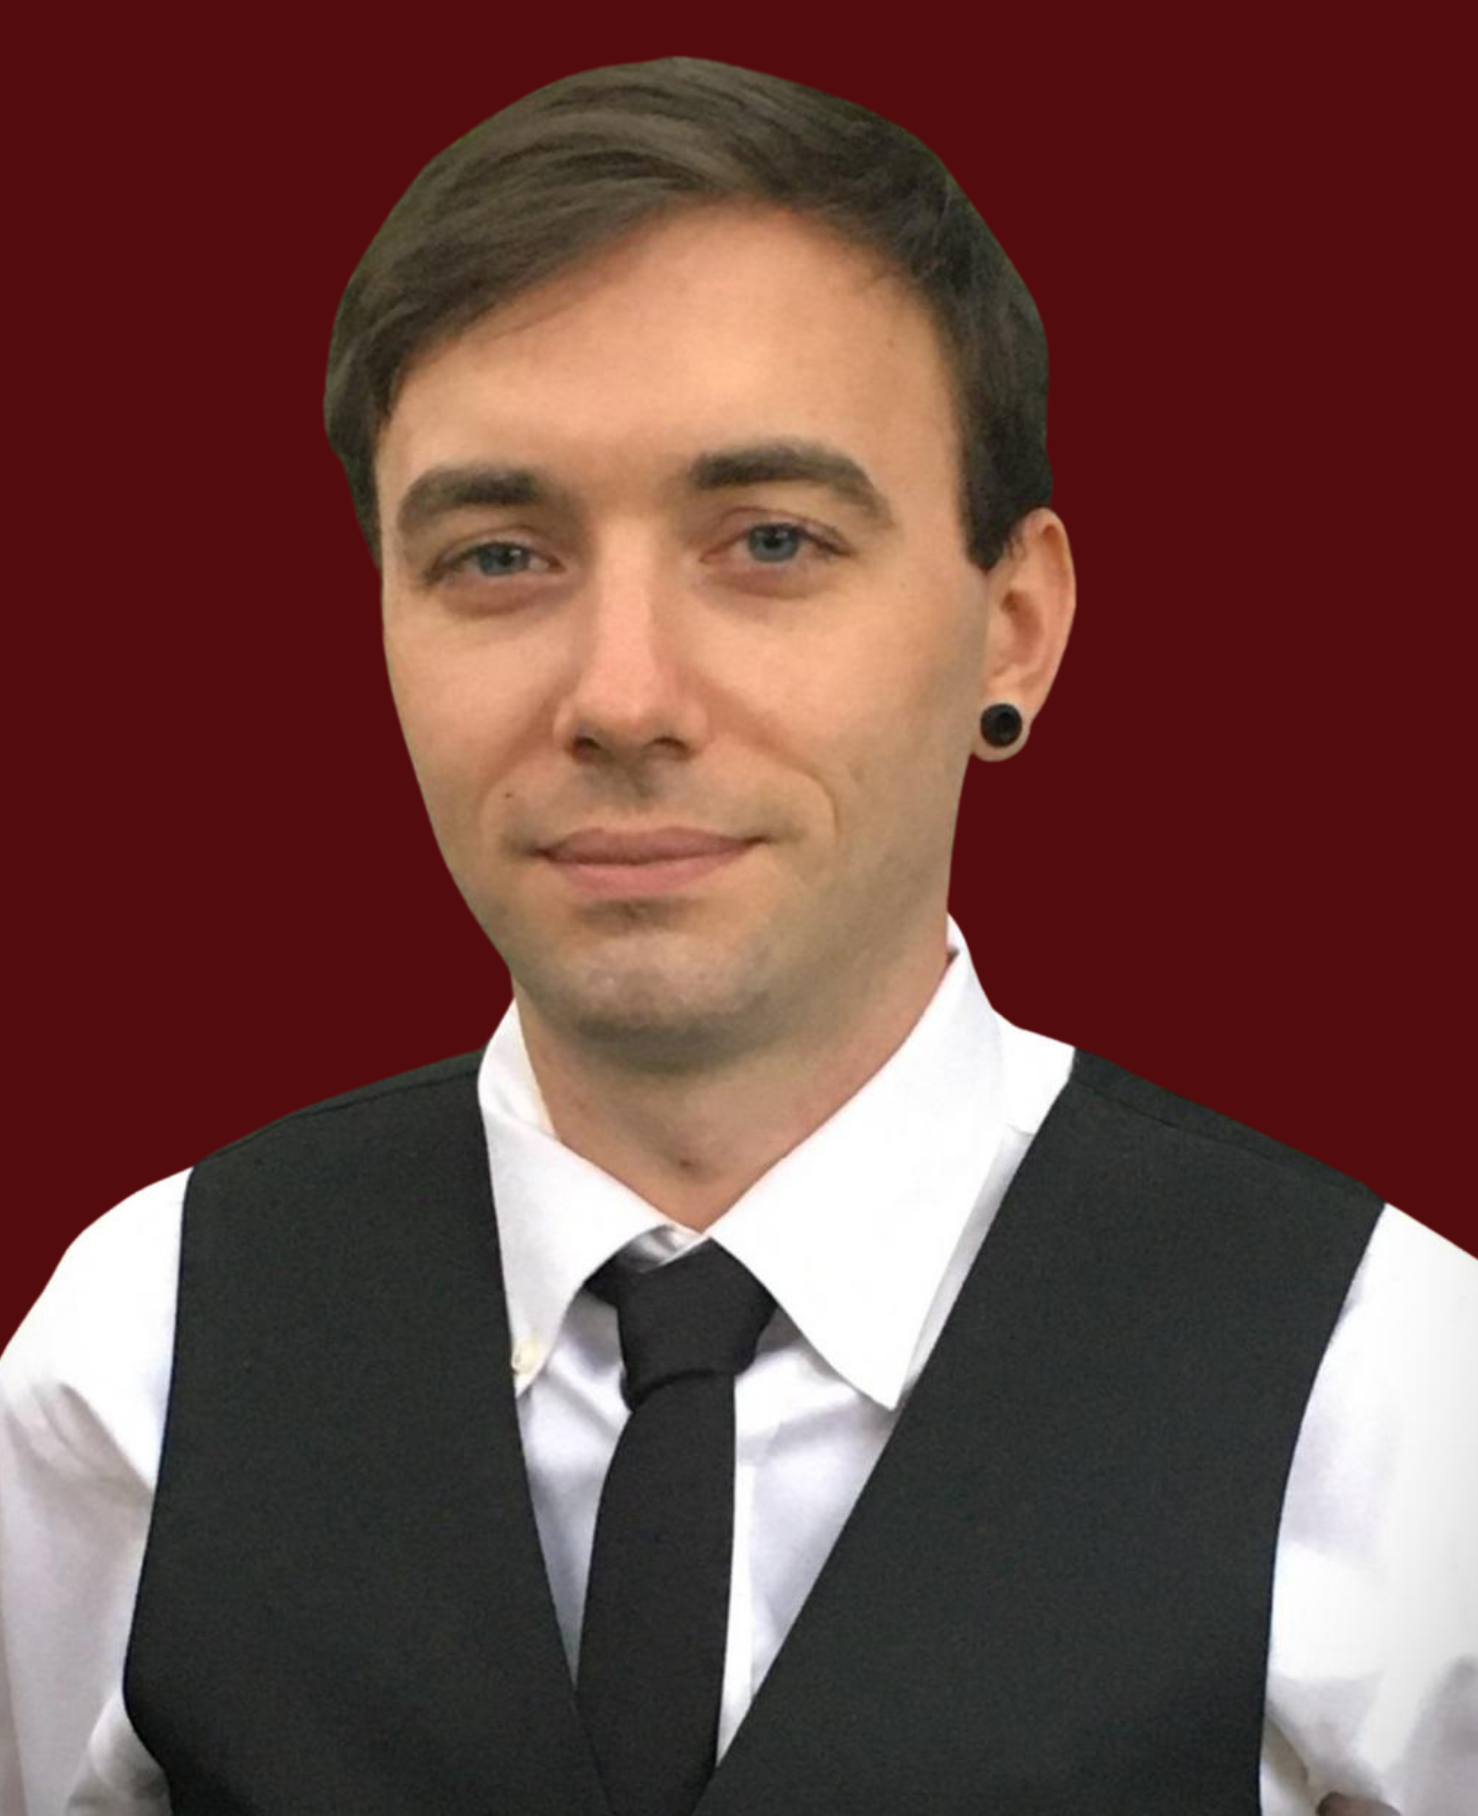
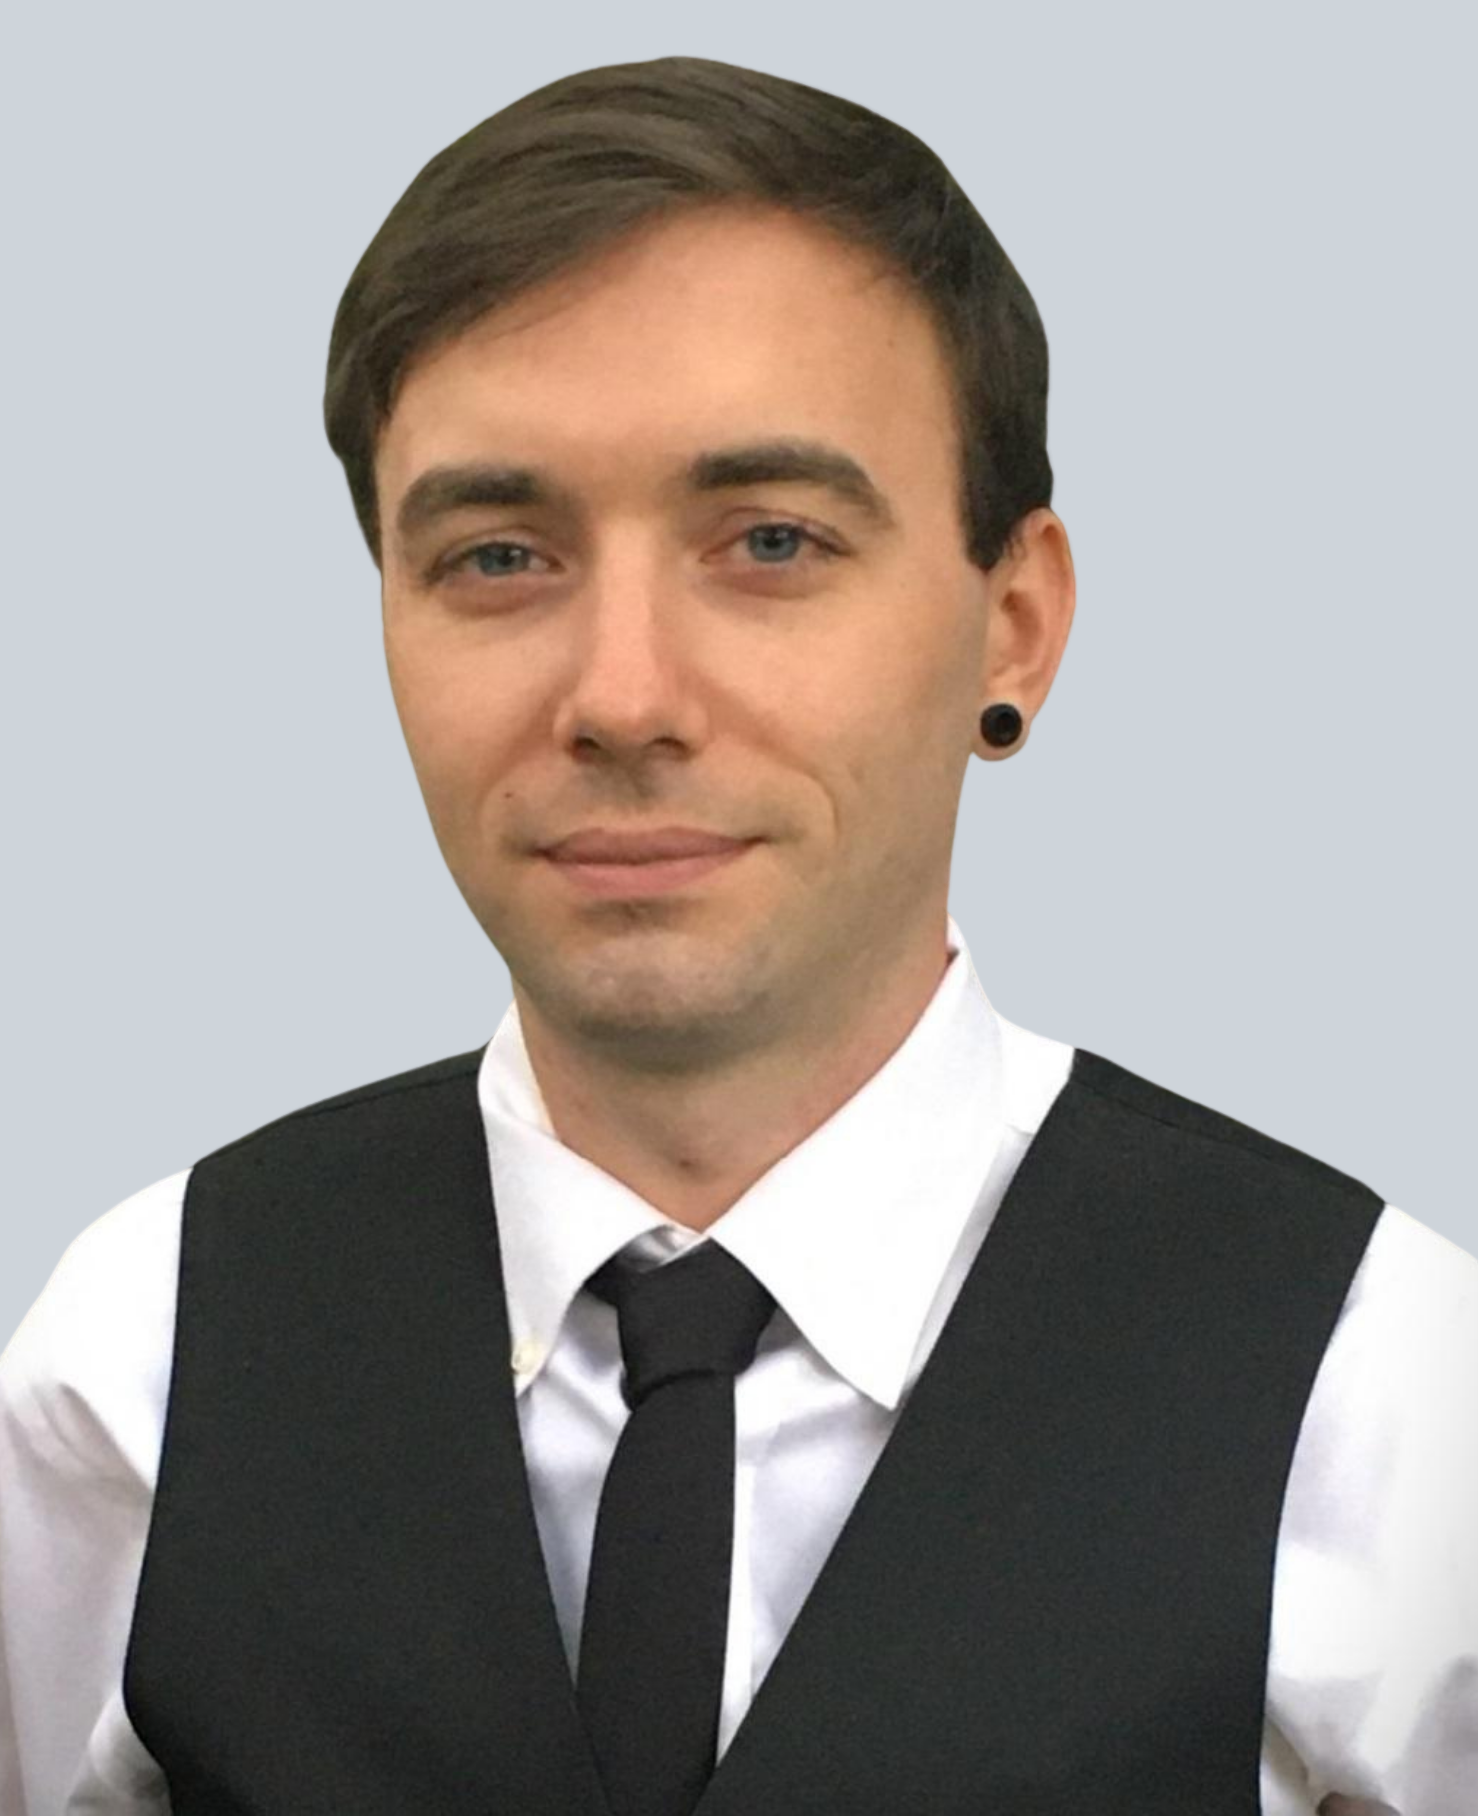
wip

diff --git a/components/about/About.js b/components/about/About.js
@@ -46,7 +46,7 @@ export const About = () => {
               borderRadius={['115px', '200px']}
               boxSize={['230px', '400px']}
               objectFit="cover"
-              src="me6.png"
+              src="me.png"
               alt="pic of me"
               boxShadow="dark-lg"
               align="top"

diff --git a/components/header/Header.js b/components/header/Header.js
@@ -29,7 +29,7 @@ export const Header = () => {
       pb="25"
       height={['20vh', '15vh']}
     >
-      <Image src="logo3.png" alt="logo" pl="10" />
+      <Image src="logo.png" alt="logo" pl="10" />
       {isSmallerThan ? (
         <Menu>
           <MenuButton mr="3" as={Button} rightIcon={<ChevronDownIcon />}>
